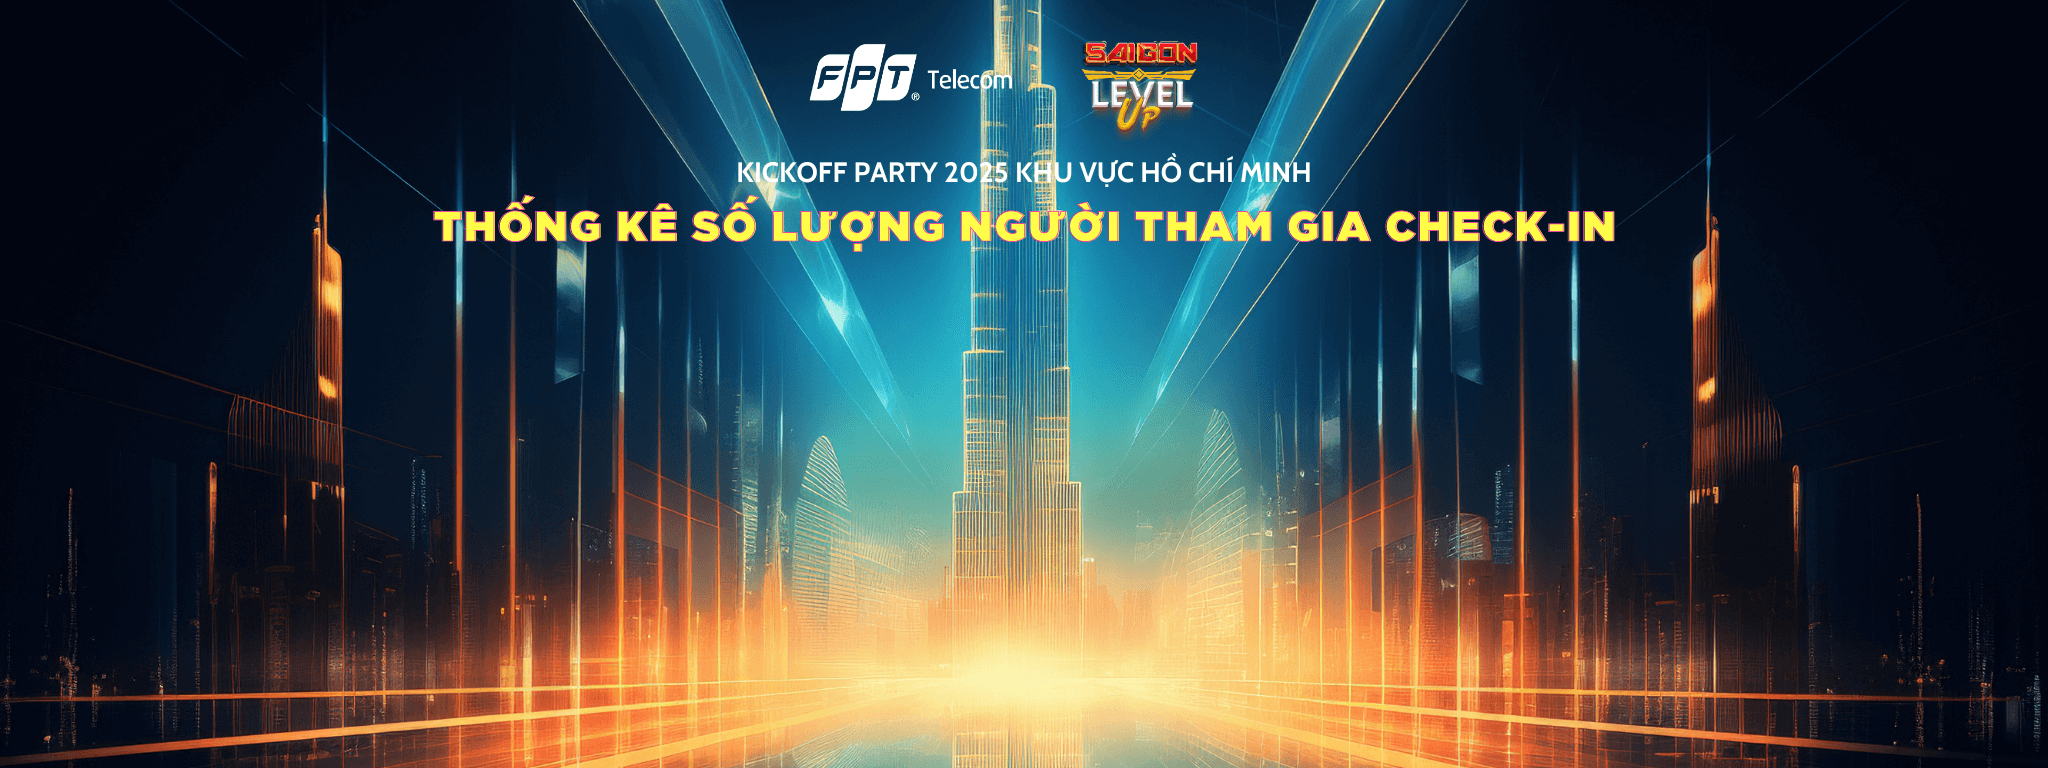
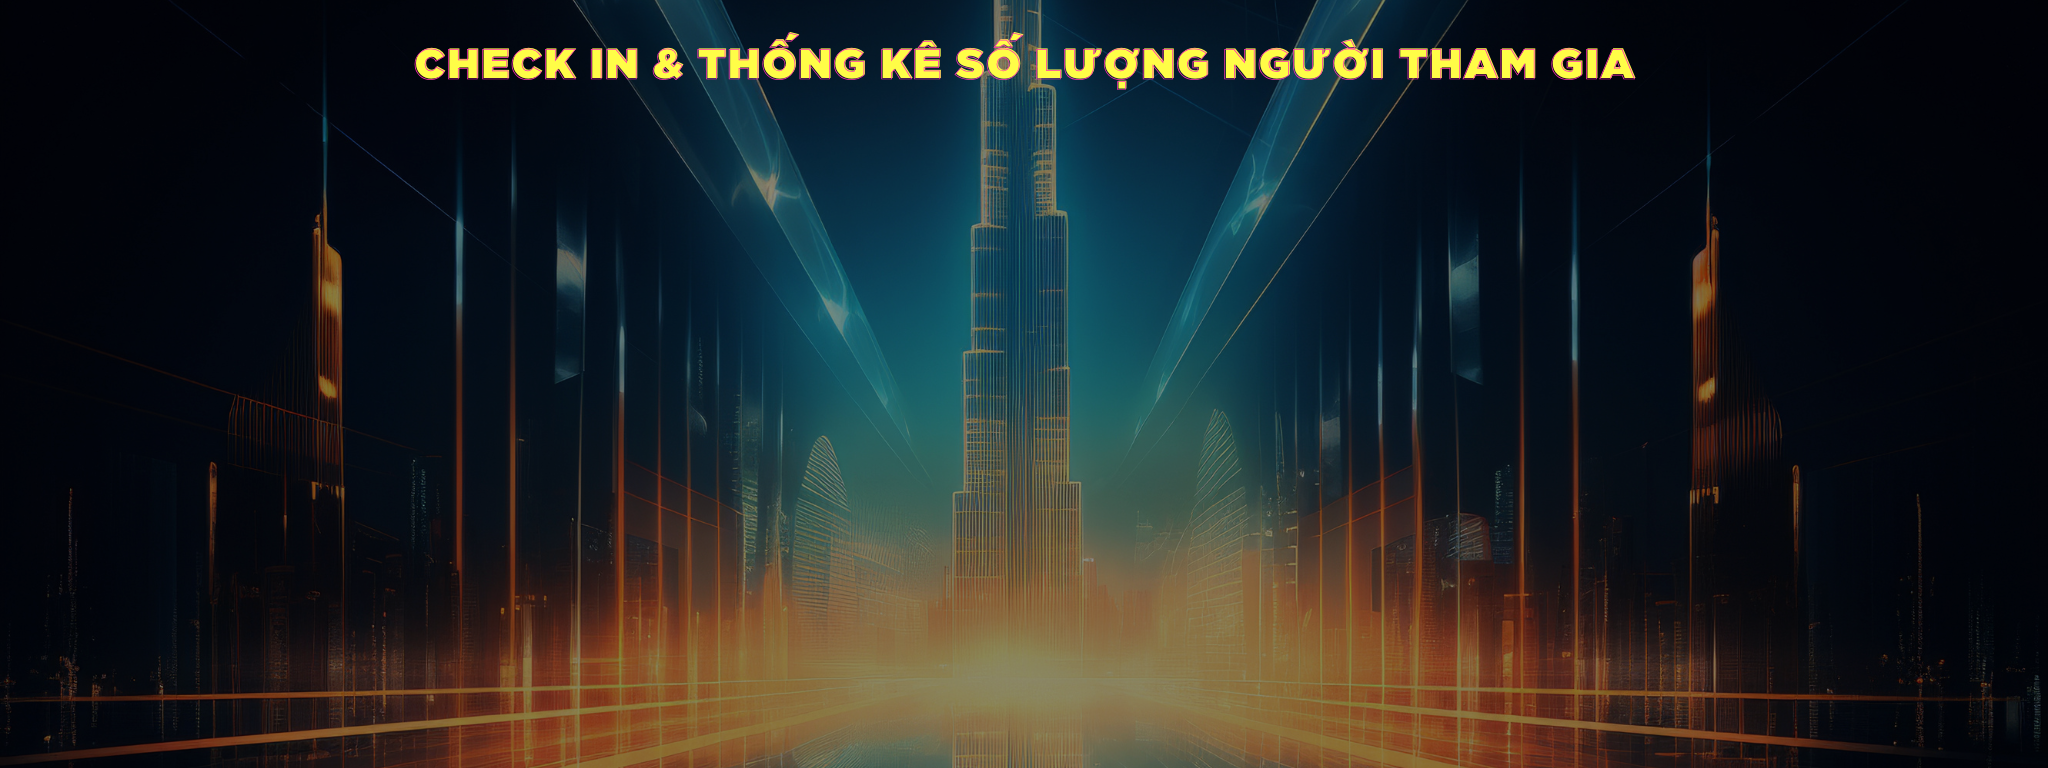
push code

diff --git a/js/app.js b/js/app.js
@@ -130,6 +130,7 @@ const start = () => {
 	const elementLoading = document.getElementById('middle');
 	const elementResult = document.getElementById('name-persion-lucky');
 	const tabelUserPrizeBody = document.getElementById('table_user_prize_body');
+	const sunmaryChart = document.getElementById('summary_chart');
 	const tabelUserJoinPrizeCount = document.getElementById(
 		'table_user_join_prize_count',
 	);
@@ -553,10 +554,15 @@ const start = () => {
 						? ((totalCheckedInAllTeams / totalAllTeams) * 100).toFixed(2)
 						: 0;
 
-					// Thêm hàng "TỔNG CỘNG" vào dữ liệu
-					sortedLabels.push('TỔNG');
-					sortedTotalValues.push(totalAllTeams);
-					sortedCheckedInValues.push(totalCheckedInAllTeams);
+					// // Thêm hàng "TỔNG CỘNG" vào dữ liệu
+					// sortedLabels.push('TỔNG');
+					// sortedTotalValues.push(totalAllTeams);
+					// sortedCheckedInValues.push(totalCheckedInAllTeams);
+
+					sunmaryChart.innerHTML = `
+						<div>Tổng số chiến binh: <b>${totalAllTeams?.toLocaleString()}</b> chiến binh</div>
+						<div>Phần trăm đã checkin: <b>${percentageCheckedInAllTeams}</b>%</div>
+					`;
 
 					let _mychart =
 						chartStatisticalWrapper.style.display === 'block'
@@ -568,24 +574,24 @@ const start = () => {
 						data: {
 							labels: sortedLabels.map((item) => item.toUpperCase()),
 							datasets: [
-								{
-									label: '',
-									data: sortedLabels.map((label) =>
-										label === 'TỔNG' ? percentageCheckedInAllTeams : null,
-									),
-									borderWidth: 1,
-									hidden: true,
-									datalabels: {
-										anchor: 'end',
-										align: 'top',
-										color: '#FFFFFF',
-										font: {
-											size: 30,
-											weight: 'bold',
-										},
-										formatter: (value) => (value ? value + '%' : ''),
-									},
-								},
+								// {
+								// 	label: '',
+								// 	data: sortedLabels.map((label) =>
+								// 		label === 'TỔNG' ? percentageCheckedInAllTeams : null,
+								// 	),
+								// 	borderWidth: 1,
+								// 	hidden: true,
+								// 	datalabels: {
+								// 		anchor: 'end',
+								// 		align: 'top',
+								// 		color: '#FFFFFF',
+								// 		font: {
+								// 			size: 30,
+								// 			weight: 'bold',
+								// 		},
+								// 		formatter: (value) => (value ? value + '%' : ''),
+								// 	},
+								// },
 								{
 									label: 'TỔNG SỐ CHIẾN BINH',
 									data: sortedTotalValues,

diff --git a/index.html b/index.html
@@ -301,12 +301,29 @@
 							</div>
 						</div>
 					</div>
+					<!-- <div
+						style="
+							position: absolute;
+							top: 38%;
+							right: 0;
+							left: 60%;
+							bottom: 0;
+							transform: translate(-60%, -38%);
+						"
+					>
+						<img
+							id="checkin-chart-statistical-qrcode"
+							alt="QR code"
+							src="./assets/og/QR_CODE_PLACEHOLDER.png"
+							style="width: 500px; height: 500px"
+						/>
+					</div> -->
 					<div
 						style="
 							width: 100%;
 							height: 100%;
 							display: flex;
-							align-items: flex-end;
+							align-items: center;
 							justify-content: center;
 						"
 					>
@@ -321,6 +338,7 @@
 							height="200"
 						></canvas>
 					</div>
+					<div id="summary_chart"></div>
 				</div>
 			</div>
 
